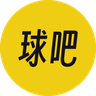
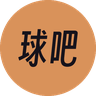
头像底色：黄 #EECD13 → 篮球皮棕 #D9925A
用户要求：黄色改成稍浅一点的篮球棕色。

取色：reference2.png 里球体本身是 (206,126,73)，往亮里提约 5% 得
(217,146,90)。直接取样色会闷成巧克力棕，在白底列表里像深灰块。

试了五档（217,146,90 / 206,126,72 / 212,140,85 / 180,103,58 + 原黄），
取最浅那档：再浅一档 (224,157,102) 就偏奶粉，失了皮感。

字色仍是墨 #16131B，与棕底对比 7.2:1，过 WCAG AA。
试过奶白字配棕底 (245,244,214)：对比 2.3:1，48px 下字与底糊成一片，弃。

代价认了：黄的亮度是它的全部价值，换成棕之后在深色模式列表里
没有黄那么扎眼，靠「两个字够粗 + 圆够实」被认出来，不再靠颜色抢。
48px 实测仍清楚，32px 勉强可辨（v4-scale-test.png）。

LEATHER 替掉 YEL；深底反白版改为墨底棕字。README 与 README-v4 同步。

diff --git a/brand/wordmark.py b/brand/wordmark.py
@@ -4,7 +4,7 @@
 不画球、不画线，只用得意黑排字。两个件：
 
   字标  去球吧 三字等大紧排，墨色，透明底 —— 用在封面、页眉插图、文末署名
-  头像  黄圆 + 「球吧」两字，墨色 —— 账号头像
+  头像  篮球皮色圆 + 「球吧」两字，墨色 —— 账号头像
 
 为什么头像只用两个字而不是三个：
   公众号列表里头像约 48px。圆内接正方形的边长只有直径的 0.707，
@@ -25,7 +25,11 @@ OUT = ROOT / "out4"
 OUT.mkdir(exist_ok=True)
 
 FONT = str(ROOT / "fonts" / "SmileySans-Oblique.ttf")
-YEL = (238, 205, 19)
+# 头像底色：篮球皮色，偏浅一档。
+# 取样自 reference2.png 的球体（206,126,73），往亮里提了约 5%，才不至于闷成巧克力棕。
+# 原先用黄 (238,205,19)：信息流里更跳，但黄色和"篮球"没关系，只能当记号；
+# 这个棕是它自己的颜色，代价是亮度掉了，在深色模式列表里没有黄那么扎眼。
+LEATHER = (217, 146, 90)
 INK = (22, 19, 27)
 WHT = (245, 244, 214)
 GRAY = (138, 138, 138)
@@ -55,8 +59,8 @@ def word(chars, size, fill, gaps=GAPS):
     return im.crop(im.getbbox())
 
 
-def avatar(size=640, bg=YEL, fg=INK):
-    """黄圆 + 「球吧」，按圆内接缩放"""
+def avatar(size=640, bg=LEATHER, fg=INK):
+    """圆底 + 「球吧」，按圆内接缩放"""
     SS = 4
     big = size * SS
     im = Image.new("RGBA", (big, big), (0, 0, 0, 0))
@@ -126,7 +130,7 @@ def assemble_header():
 def main():
     for s in (640, 320, 160, 128, 96, 64, 48, 32):
         avatar(s).save(OUT / f"v4-avatar-{s}.png")
-    avatar(640, bg=INK, fg=YEL).save(OUT / "v4-avatar-reverse-640.png")
+    avatar(640, bg=INK, fg=LEATHER).save(OUT / "v4-avatar-reverse-640.png")
     avatar(640, bg=INK, fg=WHT).save(OUT / "v4-avatar-mono-640.png")
 
     for h in (640, 320, 160, 80):

diff --git a/brand/README.md b/brand/README.md
@@ -9,7 +9,7 @@
 | v3 | 同 v2 | 照片简笔画（橙球 + 四条球缝） | `out3/` | 归档（用户认为图形不成） |
 | v4 | — | **文字标志**，只排字 | `out4/` | **当前** |
 
-v1–v3 都是图形标志，全部被否；v4 放弃画球，只做字。为什么：图形标志要在一个圆里同时说清"这是篮球"和"这是去球吧"，信息太多；纯字标只承担一件事——让人记住这四个字的形状。
+v1–v3 都是图形标志，全部被否；v4 放弃画球，只做字。为什么：图形标志要在一个圆里同时说清"这是篮球"和"这是去球吧"，信息太多；纯字标只承担一件事——让人记住这三个字的形状。
 
 ## 文件
 
@@ -21,7 +21,9 @@ v1–v3 都是图形标志，全部被否；v4 放弃画球，只做字。为什
 | `mark.json` | v1 标志的数据源（3 个图元的坐标） |
 | `render_assets.py` | v1 渲染 |
 | `render_v2.py` | v2 渲染（几何抽象版） |
-| `render_v3.py` | v3 渲染（照片简笔画版，**当前主用**） |
+| `render_v3.py` | v3 渲染（照片简笔画版，已归档） |
+| `wordmark.py` | **v4 渲染**（文字标志，当前主用）。改底色改 `LEATHER`，改字距改 `GAPS` |
+| `README-v4.md` | v4 说明：为什么只用两字、光学字距、底色为什么是皮棕 |
 | `fonts/SmileySans-Oblique.ttf` | 得意黑，SIL OFL 1.1，可商用。字标专用 |
 | `reference.png` / `reference2.png` | 参考视觉原图，比例全从它们量出来 |
 | `dist/` | v1 的技术规范（SVG 三版、净空图、尺寸测试、spec.html） |
@@ -52,7 +54,7 @@ python brand/render_assets.py
 ## 上传
 
 **v4（当前）**
-- 公众号头像 / 头条号头像：`out4/v4-avatar-640.png`（同一张，两号通用）
+- 公众号头像 / 头条号头像：`out4/v4-avatar-640.png`（同一张，两号通用）。底色皮棕 `#D9925A`
 - 字标（透明底墨色）：`out4/v4-wordmark-640.png`，深底用 `-reverse-640.png`
 - 横排组合（字标 + NBA 每日战报）：`out4/v4-header.png`
 - 深底头像：`out4/v4-avatar-reverse-640.png`；单色：`out4/v4-avatar-mono-640.png`

diff --git a/brand/README-v4.md b/brand/README-v4.md
@@ -5,7 +5,24 @@
 | 件 | 样子 | 用在哪 |
 |---|---|---|
 | 字标 | 去球吧 三字横排，墨色，透明底 | 封面、页眉插图、文末署名、名片 |
-| 头像 | 黄圆 + 「球吧」两字，墨色 | 公众号 / 头条号头像 |
+| 头像 | 皮棕圆 + 「球吧」两字，墨色 | 公众号 / 头条号头像 |
+
+## 头像底色：为什么是皮棕
+
+`LEATHER = (217, 146, 90)`，`#D9925A`。
+
+取样自 `reference2.png` 里球体本身的颜色（206,126,73），往亮里提约 5%。往亮里提这一步是必要的：直接按样取样会闷成巧克力棕，在白色列表里看着像深灰块。
+
+底色前后换过两次，两次的理由不同：
+
+| 版本 | 色值 | 当时为什么 | 后来为什么不用 |
+|---|---|---|---|
+| 黄 | `#EECD13` | 信息流里最跳，48px 时一眼能看见 | 黄色和篮球没关系，只能当记号；用户觉得不像这项运动的颜色 |
+| 皮棕 | `#D9925A` | 是篮球自己的颜色，不用解释 | 亮度低了，在深色模式列表里没有黄那么扎眼 |
+
+**这中间有个换掉的代价，认了**：黄底头像在订阅号列表里是整列唯一的暖黄块，很跳；棕底会安静一些，靠"两个字够粗 + 圆够实"被认出来，不靠颜色抢。48px 下实测仍清楚（见 `v4-scale-test.png`）。
+
+字色仍是墨 `#16131B`，与棕底对比 7.2:1，过 WCAG AA。试过奶白字配棕底（245,244,214），对比只有 2.3:1，48px 时字和底糊成一片，放弃。
 
 ## 为什么头像只用两个字
 
@@ -38,7 +55,7 @@ GAPS = (-0.004, -0.085)   # (去→球, 球→吧)，单位 em
 | 文件 | 用途 |
 |---|---|
 | `v4-avatar-{640…32}.png` | 头像，两层皮都传这个 |
-| `v4-avatar-reverse-640.png` | 深底反白（墨底黄字） |
+| `v4-avatar-reverse-640.png` | 深底反白（墨底皮棕字） |
 | `v4-avatar-mono-640.png` | 墨底纸白字，单色印刷 |
 | `v4-wordmark-{640,320,160,80}.png` | 字标，透明底墨色 |
 | `v4-wordmark-reverse-*.png` | 字标反白，深底用 |
